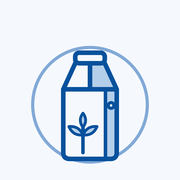
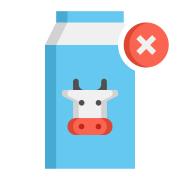
Add files via upload

diff --git a/index.html b/index.html
@@ -139,6 +139,8 @@
   .hero svg{width:56px;height:56px;color:var(--accent);opacity:.6}
   .dname{font-family:var(--font-round);font-size:27px;font-weight:800;letter-spacing:-.02em;margin:18px 0 0}
   .ddesc{color:var(--text-2);font-size:16px;line-height:1.5;margin:8px 0 0;white-space:pre-wrap}
+  .dbrand{color:var(--text-2);font-size:15px;font-weight:600;margin-top:3px}
+  .cb-brand{color:var(--text);font-weight:600}
   .sectionhead{display:flex;align-items:center;justify-content:space-between;margin:30px 0 10px}
   .sectionhead h3{font-size:14px;font-weight:700;text-transform:uppercase;letter-spacing:.04em;color:var(--text-2);margin:0}
   .addlink{color:var(--accent-ink);font-weight:650;font-size:15px;display:flex;align-items:center;gap:4px;padding:4px}
@@ -288,7 +290,11 @@
     <input type="file" id="photoInput" accept="image/*" class="hidden">
     <div class="field">
       <label for="nameInput">Název</label>
-      <input id="nameInput" type="text" placeholder="např. Rostlinný jogurt Alpro" enterkeyhint="next">
+      <input id="nameInput" type="text" placeholder="např. Rostlinný jogurt" enterkeyhint="next">
+    </div>
+    <div class="field">
+      <label for="brandInput">Výrobce</label>
+      <input id="brandInput" type="text" placeholder="např. Alpro" enterkeyhint="next">
     </div>
     <div class="field">
       <label for="weightInput">Množství balení <span style="text-transform:none;font-weight:500;color:var(--text-3)">(pro cenu za 100 g / 100 ml)</span></label>
@@ -490,7 +496,7 @@
   var scrim=$("scrim");
   var productSheet=$("productSheet"), priceSheet=$("priceSheet"), settingsSheet=$("settingsSheet");
   var photoPick=$("photoPick"), photoInput=$("photoInput");
-  var nameInput=$("nameInput"), weightInput=$("weightInput"), descInput=$("descInput"), unitSeg=$("unitSeg"), lactoseInput=$("lactoseInput");
+  var nameInput=$("nameInput"), weightInput=$("weightInput"), descInput=$("descInput"), unitSeg=$("unitSeg"), lactoseInput=$("lactoseInput"), brandInput=$("brandInput");
   var storeInput=$("storeInput"), priceInput=$("priceInput"), priceNote=$("priceNote"), priceDelete=$("priceDelete");
   var toastEl=$("toast"), bannerEl=$("banner");
 
@@ -509,6 +515,7 @@
     if(q){
       items = items.filter(function(p){
         if(p.name.toLowerCase().indexOf(q)>=0) return true;
+        if((p.brand||"").toLowerCase().indexOf(q)>=0) return true;
         if((p.desc||"").toLowerCase().indexOf(q)>=0) return true;
         return (p.prices||[]).some(function(pr){ return (pr.store||"").toLowerCase().indexOf(q)>=0; });
       });
@@ -532,13 +539,17 @@
       var lsc = scoreFor(p.lactose);
       var scDot = lsc ? '<span class="score-dot" style="background:'+SCORES[lsc].color+'">'+lsc+'</span>' : '';
       thumb = '<div class="thumbwrap">'+thumb+scDot+'</div>';
+      var subParts=[];
+      if(p.brand) subParts.push('<span class="cb-brand">'+esc(p.brand)+'</span>');
+      if(p.desc) subParts.push(esc(p.desc));
+      var subHtml = subParts.length ? '<div class="carddesc">'+subParts.join(' · ')+'</div>' : '<div class="carddesc" style="color:var(--text-3)">bez popisu</div>';
       var pu = b ? per100Str(b.price, p.weight||null, p.unit||"g") : "";
       var price = b
         ? '<div class="amt">'+money.format(b.price)+'</div><div class="where">'+esc(b.store)+'</div>'+(pu?'<div class="per100">'+pu+'</div>':'')
         : '<div class="none">— bez ceny</div>';
       html+='<button class="card" data-id="'+p.id+'">'+thumb+
         '<div class="cardmain"><div class="cardname">'+esc(p.name)+'</div>'+
-        (p.desc?'<div class="carddesc">'+esc(p.desc)+'</div>':'<div class="carddesc" style="color:var(--text-3)">bez popisu</div>')+
+        subHtml+
         '</div><div class="cardprice">'+price+'</div></button>';
     });
     html+='</div>';
@@ -584,6 +595,7 @@
 
     detailBody.innerHTML = hero+
       '<div class="dname">'+esc(p.name)+'</div>'+
+      (p.brand?'<div class="dbrand">'+esc(p.brand)+'</div>':'')+
       (w?'<div class="dweight">'+fmtAmount(w,unit)+'</div>':'')+
       scoreCard+
       (p.desc?'<div class="ddesc">'+esc(p.desc)+'</div>':'')+
@@ -624,6 +636,7 @@
     editingProduct = product;
     $("productSheetTitle").textContent = product ? "Upravit produkt" : "Nový produkt";
     nameInput.value = product ? product.name : "";
+    brandInput.value = product ? (product.brand||"") : "";
     var u = (product && product.unit) ? product.unit : "g";
     setUnit(u);
     weightInput.value = (product && product.weight)
@@ -640,16 +653,17 @@
     var name = nameInput.value.trim();
     if(!name){ toast("Zadej název produktu"); nameInput.focus(); return; }
     var desc = descInput.value.trim();
+    var brand = brandInput.value.trim();
     var parsed = parseAmount(weightInput.value, draftUnit);
     var weight = parsed ? parsed.amount : null;
     var unit = parsed ? parsed.unit : draftUnit;
     var lactose = parseLactose(lactoseInput.value);
     try{
       if(editingProduct){
-        editingProduct.name=name; editingProduct.desc=desc; editingProduct.weight=weight; editingProduct.unit=unit; editingProduct.lactose=lactose; editingProduct.image=draftImage||null;
+        editingProduct.name=name; editingProduct.brand=brand; editingProduct.desc=desc; editingProduct.weight=weight; editingProduct.unit=unit; editingProduct.lactose=lactose; editingProduct.image=draftImage||null;
         await storeSet(editingProduct.id, editingProduct);
       } else {
-        var p={ id:uid("p_"), name:name, desc:desc, weight:weight, unit:unit, lactose:lactose, image:draftImage||null, prices:[] };
+        var p={ id:uid("p_"), name:name, brand:brand, desc:desc, weight:weight, unit:unit, lactose:lactose, image:draftImage||null, prices:[] };
         products.push(p); await storeSet(p.id,p);
       }
       closeSheet(productSheet);
